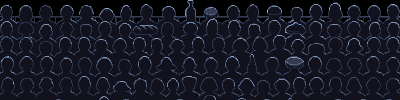
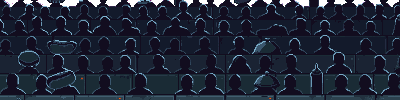
GlizzyBrawl: the contrast gate looks where the fight happens
Two things the Ballpark's tickets asked for that the first pass missed.

The contrast check measured "at all eight spawn points", which is what the plan
said and is the wrong place. Every spawn is in the air above y=320; the crowd
band sits at 420-520. So the gate never once composited a Fighter against the
crowd — the asset the plan itself singles out as most likely to fail it, and
the only one generated blind to the Fighters. It now tests the spawns, nine
positions along the wall, and each Catwalk's centre. Baseline re-derived
against the wider set: 25.3 mean, 14.1 worst, floor unchanged at 12.

And the crowd's food-shaped silhouettes never arrived. The first roll obeyed
"silhouettes, rim-lit, no faces" and quietly dropped the joke; naming each
shape concretely and giving a rate is what landed them. The new band scores
better against the fixed gate than the old one did (29.4 vs 25.2), so the
sharper silhouettes cost nothing.

The brief also gains the recipe the last ticket exists for: every job ID and
seed, the settings that produced the wall, which wang tiles the scene uses and
how to find them, the import commands, and every threshold with what it was
derived from. Including the two that cost the most time — `no_background: true`
stalls generation indefinitely, and an edge flood fill can never de-background
a lattice truss.

diff --git a/docs/glizzybrawl-stage-brief.md b/docs/glizzybrawl-stage-brief.md
@@ -246,6 +246,17 @@ The plan survived contact. Five things it didn't predict, all now load-bearing:
   railing. It now finds the first row that reads as a deck and fails on
   anything standing more than 2px clear of it.
 
+- **"At all eight spawn points" is the wrong place to measure contrast.** Every
+  spawn is in the air above y=320 and the crowd band sits at 420–520, so a check
+  written to that letter never composites a Fighter against the crowd — the one
+  asset this plan singles out as most likely to fail it. It now tests the
+  spawns, nine positions along the wall, and each Catwalk's centre.
+- **The crowd's food-shaped silhouettes had to be asked for twice.** The first
+  roll obeyed "silhouettes, rim-lit, no faces" and quietly dropped the wrong
+  shapes; naming each one concretely (a crimped bottle cap, a bun lying
+  sideways, a kettle-grill lid with a knob) and giving a rate — "roughly one in
+  six" — is what landed them.
+
 Two calls worth revisiting, neither blocking:
 
 - **The wall reads lighter than the rest of the Ballpark.** Three rolls, and
@@ -262,6 +273,117 @@ The silhouette-contrast gate lives in the preview script, not in
 originally said; that ADR has been corrected. The placeholder Stage measures a
 mean of 19.9 and a worst placement of 14.1, so the floor is 12. The finished
 Ballpark measures 23.7 mean, nothing below the floor.
+
+## The recipe
+
+Everything a future session needs to re-fetch, re-roll or extend the Ballpark.
+Downloads are `https://api.pixellab.ai/mcp/images/<id>/download` for props and
+`https://api.pixellab.ai/mcp/sidescroller-tilesets/<id>/image` (plus
+`/metadata`) for the tileset.
+
+### Props (`create_image_pro`)
+
+Every one was generated with `no_background: false` on a **magenta background**
+and keyed out at import — see the two gotchas below. The scoreboard is anchored
+to a Fighter with the palette excluded; everything after it is anchored to the
+scoreboard's download URL with all four style aspects copied.
+
+| Prop | Job ID | Size | Seed | Style anchor |
+|---|---|---|---|---|
+| `board_main` | `bcb19c67-e185-41bb-82af-dfba004b263a` | 400×260 | 11 | The Glizzy's `stand`, `style_copy: ["outline","detail","shading"]` — **no `color_palette`** |
+| `tower_light` | `a4bf2e3f-4443-4c41-acbd-26648b9b2a76` | 100×300 | 21 | `board_main`, all four aspects |
+| `crowd_band` | `4f489a61-888a-4251-a1c4-03463e4aea57` | 400×100 | 71 | `board_main`, all four aspects |
+| `walk_a` | `ee8ec0ca-6243-42ce-adb5-d1d329e037d3` | 220×40 | 31 | `board_main`, all four aspects |
+| `walk_b` | `cd524318-5a3b-4c18-9503-4d80cb26ef51` | 220×40 | 32 | `board_main`, all four aspects |
+| `walk_c` | `abddbaa9-f70d-4284-9610-4895723d3023` | 220×40 | 33 | `board_main`, all four aspects |
+
+The Fighter anchor has to be **small**: `style_image_base64` is truncated in
+transit by the MCP client at roughly 1,500 characters, so `glizzy_stand.png`
+goes in resized to 56×56 and quantised to 24 colours (~800 chars of base64).
+The full-size sprite fails with "broken data stream". Everything downstream uses
+`style_image_url` pointed at the scoreboard's own download URL, which has no
+such limit and is the reason the scoreboard goes first.
+
+Rejected rolls, kept so nobody re-runs them: `1e77102b-ef4c-4dc1-b58f-fa847d00f4cf`
+and `e577bfad-2628-47c5-bdbd-6bc578078157` (scoreboard with `no_background:
+true`, both stalled — see below), and `34be4db8-2abd-45e8-8c1c-c81085ba503c`
+(a `walk_a` re-roll aimed at a thicker deck that came back as a truss with gaps
+and no solid surface; the original stands).
+
+### Two gotchas that cost the most time
+
+- **`no_background: true` stalls `create_image_pro` indefinitely.** Two jobs sat
+  at 49% with a *rising* ETA for over twenty minutes. The same prompt at the
+  same size with `no_background: false` completed. Generate on a chroma key
+  instead — the prompt ends with "isolated on a flat pure magenta background".
+- **An edge flood fill cannot de-background a lattice truss.** It is walled in
+  by the bracing, so the scoreboard came back with magenta inside every triangle
+  and the Catwalks with magenta between their girders. Hence `--key`, which
+  removes the colour globally. Pass every shade the model dithered it into:
+  `--key "#bc3b93,#fe00f1,#fe00fe" --tolerance 60`.
+
+### The wall tileset (`create_sidescroller_tileset`)
+
+Shipped: **`f4402871-cddc-4ceb-81a5-16ebf0105bfb`**, base tile
+`a3524e76-6a06-4bfa-8488-f78738b58452`.
+
+```
+lower_description:      charcoal black rubber padded wall panels, matte, unlit,
+                        dark grey seams, no green, no colour
+transition_description: black rubber top rail cap, flat, one thin pale blue-grey
+                        highlight line along the very top
+tile_size: 32   transition_size: 0.25   seed: 61
+outline: selective outline   shading: basic shading   detail: low detail
+```
+
+Two rejected rolls, both too bright and both worth knowing about:
+`7acf0db7-b428-4bcc-aa6c-17ee6d580092` (seed 41, "dark green padded wall" — came
+back lime) and `933c412e-1aa2-4edf-b8db-5125ff23e772` (seed 42, chained to the
+first via `base_tile_id`, which **pinned the palette to it** and came back
+brighter still). The lesson: this tool ignores "very dark" as an adjective, and
+`base_tile_id` inherits the thing you are trying to change. Naming a materially
+dark substance — charcoal rubber, not dark green paint — is what worked.
+
+It returns a 16-tile wang set in a 128×128 sheet. Pick the three the scene uses
+by their `corners` in the metadata, not by eye:
+
+| Asset | Corners | 
+|---|---|
+| `wall_cap` | NW/NE `upper`, SW/SE `lower` |
+| `wall_lower` | all four `lower` |
+| `wall_end` | NW/SW `upper`, NE/SE `lower` (solid to the east; the scene mirrors it for the right end) |
+
+Cut each 32×32 cell out of the sheet at its `bounding_box` and import with
+`--keep-bg` — the sheet already carries alpha, and a tile is taken verbatim.
+
+### Importing
+
+```bash
+node scripts/brawl-import-stage.mjs --list          # sizes and gates per prop
+node scripts/brawl-import-stage.mjs board_main board.png --key "#bc3b93,#fe00f1,#fe00fe" --tolerance 60
+node scripts/brawl-import-stage.mjs wall_cap cap.png --keep-bg
+node scripts/brawl-stage-preview.mjs --fighters --slot
+node scripts/brawl-stage-preview.mjs --baseline     # re-derive the contrast floor
+```
+
+### Thresholds, all derived
+
+| Check | Where | Value | Derived from |
+|---|---|---|---|
+| Silhouette contrast | preview, non-zero exit | ≥ 12 | placeholder Stage: 25.3 mean, 14.1 worst |
+| Scale | import | 1:1 ± 2% | the Fighters are drawn 1:1 |
+| Floor alignment | import | surface on the tile midline ± 1px | the wang convention |
+| Catwalk clearance | import | ≤ 2px above the walk line | a deck's own bevel is not a railing |
+
+The assembled Ballpark measures **29.4 mean**, nothing below the floor.
+
+**Contrast is measured everywhere a Fighter can be, not only at the eight
+spawns.** Taking the spawns for "everywhere" is the mistake this check shipped
+with for an afternoon: every spawn is in the air above y=320 and the crowd band
+sits at 420–520, so the gate never once composited a Fighter against the crowd —
+the asset this plan itself names as the one most likely to fail it. The point
+set is now the spawns, nine positions along the wall, and the centre of each
+Catwalk.
 
 ## Deliberately later
 
